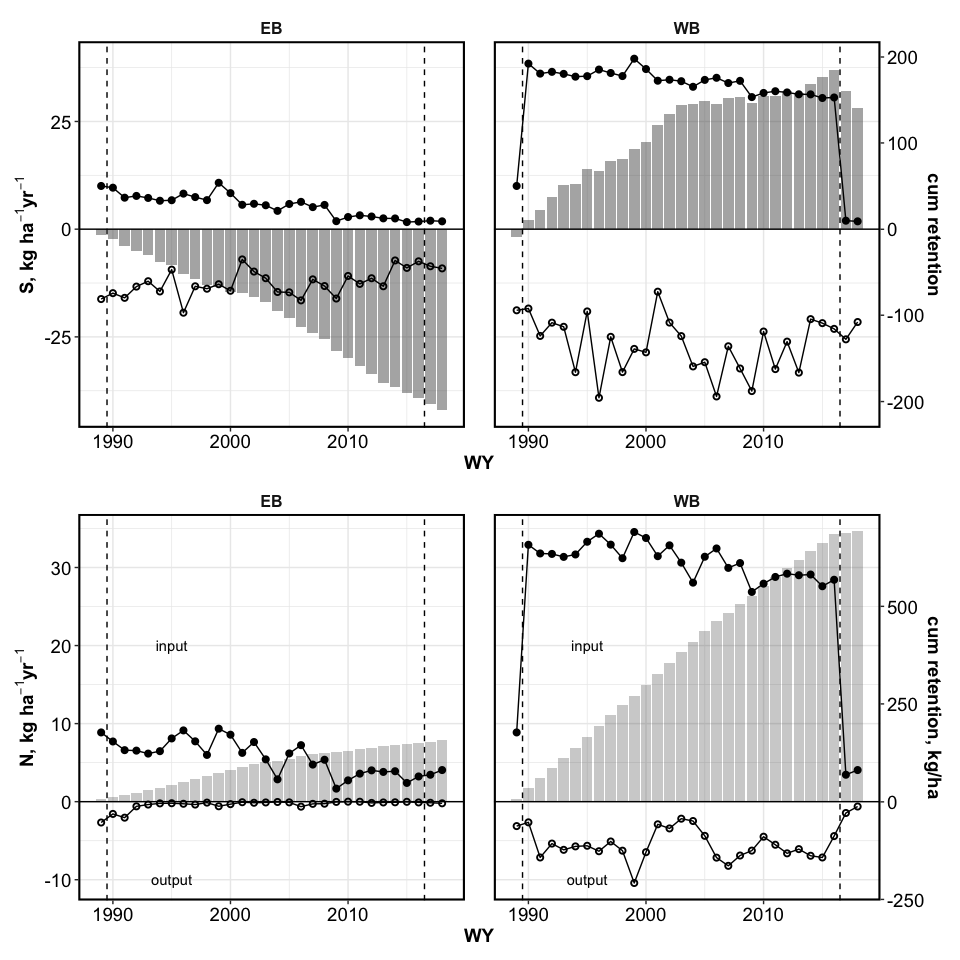
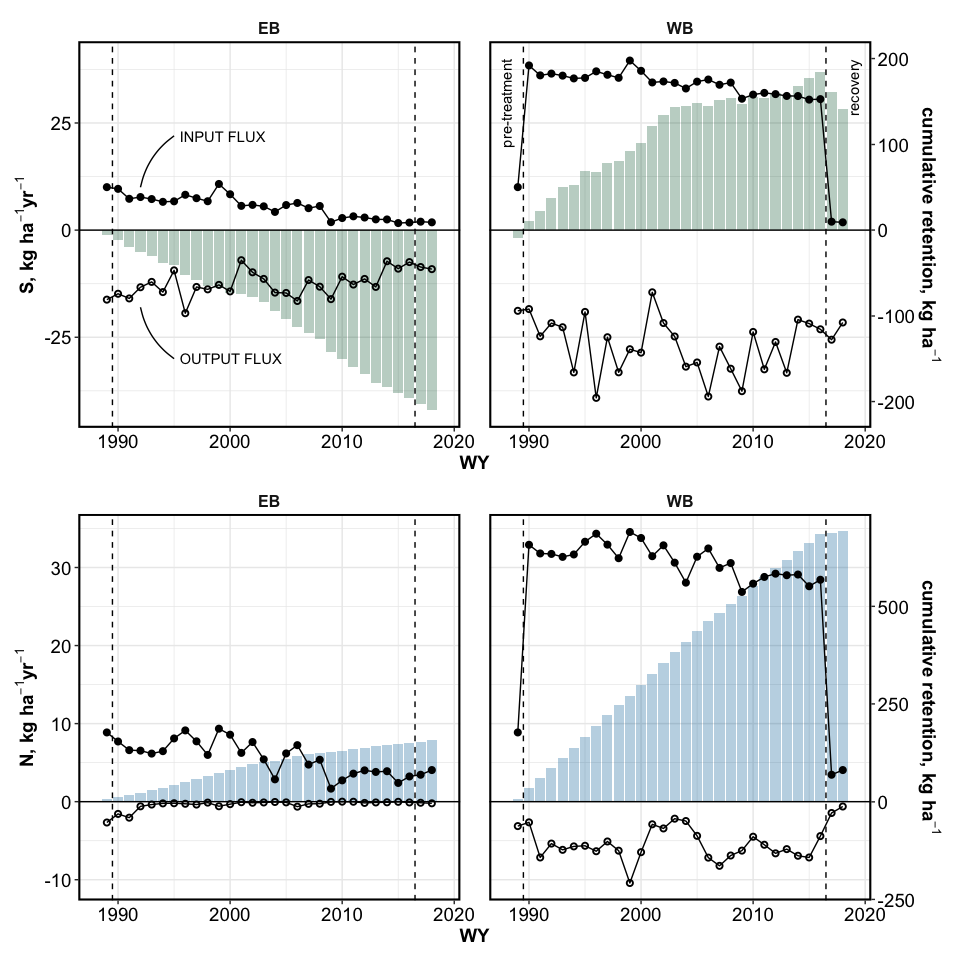
add labels for ggplots

diff --git a/2-markdown.md b/2-markdown.md
@@ -2,7 +2,7 @@ BBWM initial recovery
 ================
 Kaizad Patel
 
-2020-04-07
+2020-05-12
 
 # SUMMARY TABLE - ANNUAL CONCENTRATIONS
 
